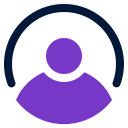
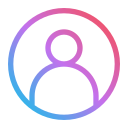
Icono del usuario cambiado + cambio en la ubicación del icono del modelo

diff --git a/frontend/app/templates/base.html b/frontend/app/templates/base.html
@@ -54,7 +54,7 @@
     <nav class="navbar navbar-expand-md navbar-light fixed-top" style="background-color: #9370DB">
       <div class="container-fluid">
         <a class="navbar-brand" href="{{ url_for('index') }}">
-          <img src="{{ url_for('serve_static', path='mainIcon.webp') }}" width="30" height="30"
+          <img src="{{ url_for('serve_static', path='images/mainIcon.webp') }}" width="30" height="30"
             class="d-inline-block align-top" alt="">
           <strong>LlamaChat</strong>
         </a>

diff --git a/frontend/app/static/scripts/conversation.js b/frontend/app/static/scripts/conversation.js
@@ -111,7 +111,7 @@ function addMessage(sender, text) {
 
     const imgDiv = document.createElement('div');
     imgDiv.classList.add('image');
-    imgDiv.style.backgroundImage = sender === 'user' ? "url('/static/images/userIcon.png')" : "url('/static/mainIcon.webp')";
+    imgDiv.style.backgroundImage = sender === 'user' ? "url('/static/images/userIcon.png')" : "url('/static/images/mainIcon.webp')";
 
     const textDiv = document.createElement('div');
     textDiv.classList.add('text');

diff --git a/frontend/app/static/scripts/conversationLog.js b/frontend/app/static/scripts/conversationLog.js
@@ -48,7 +48,7 @@ function addMessage(sender, text) {
 
     const imgDiv = document.createElement('div');
     imgDiv.classList.add('image');
-    imgDiv.style.backgroundImage = sender === 'user' ? "url('/static/images/userIcon.png')" : "url('/static/mainIcon.webp')";
+    imgDiv.style.backgroundImage = sender === 'user' ? "url('/static/images/userIcon.png')" : "url('/static/images/mainIcon.webp')";
 
     const textDiv = document.createElement('div');
     textDiv.classList.add('text');

diff --git a/frontend/app/templates/index.html b/frontend/app/templates/index.html
@@ -7,7 +7,7 @@
 {% block content %}
 <div class="text-center mt-5 fw-bold">
     <h1>
-        <img src="{{ url_for('static', filename='mainIcon.webp') }}" alt="LlamaChat Logo" style="height:100px;">LlamaChat
+        <img src="{{ url_for('static', filename='images/mainIcon.webp') }}" alt="LlamaChat Logo" style="height:100px;">LlamaChat
     </h1>
     <div class="customContainer col-md-8 mx-auto lead">
         {% if current_user.is_authenticated %}
